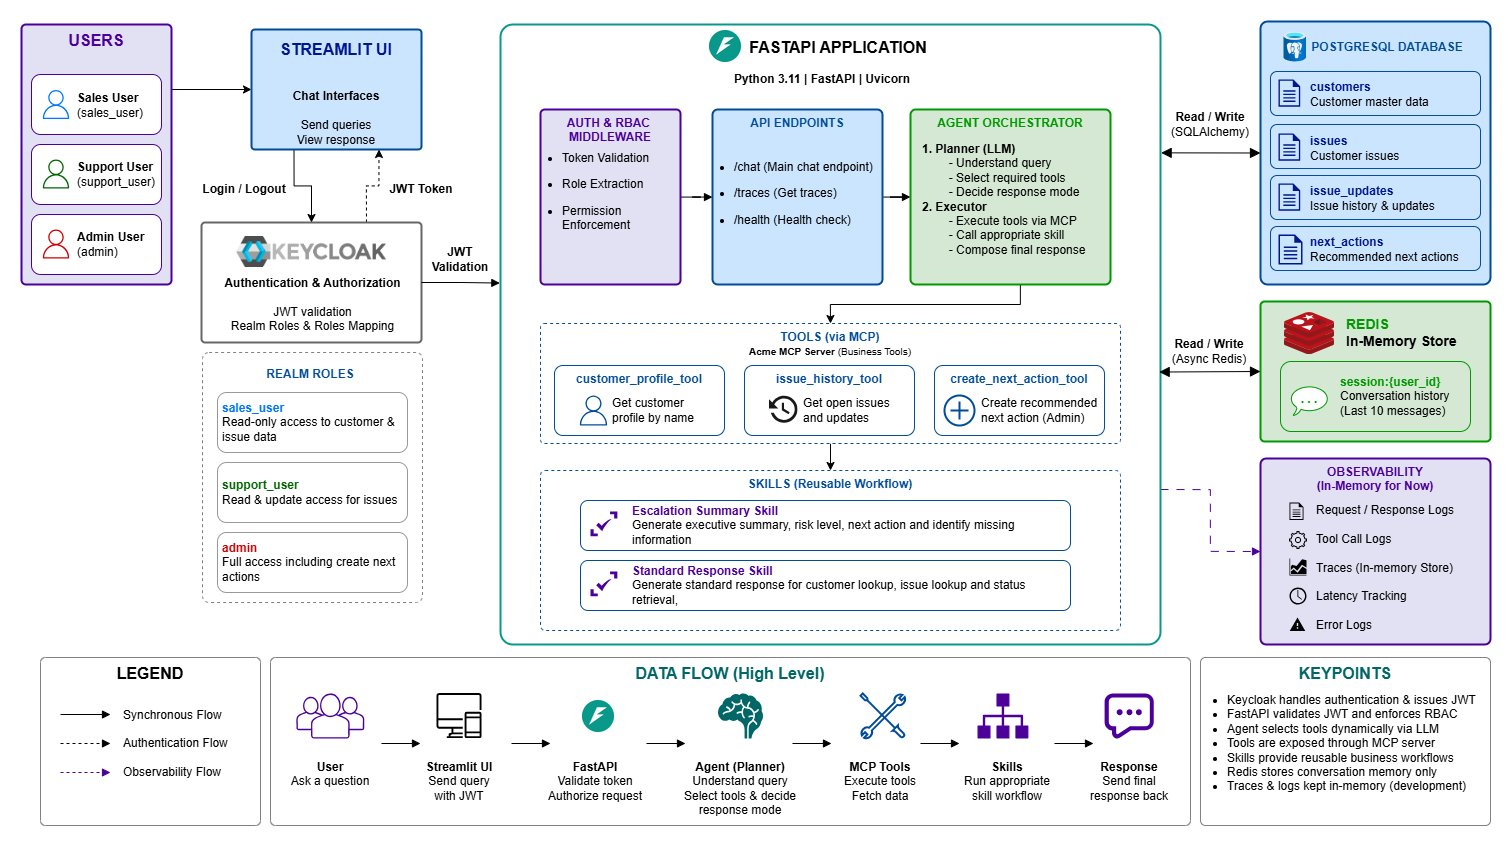
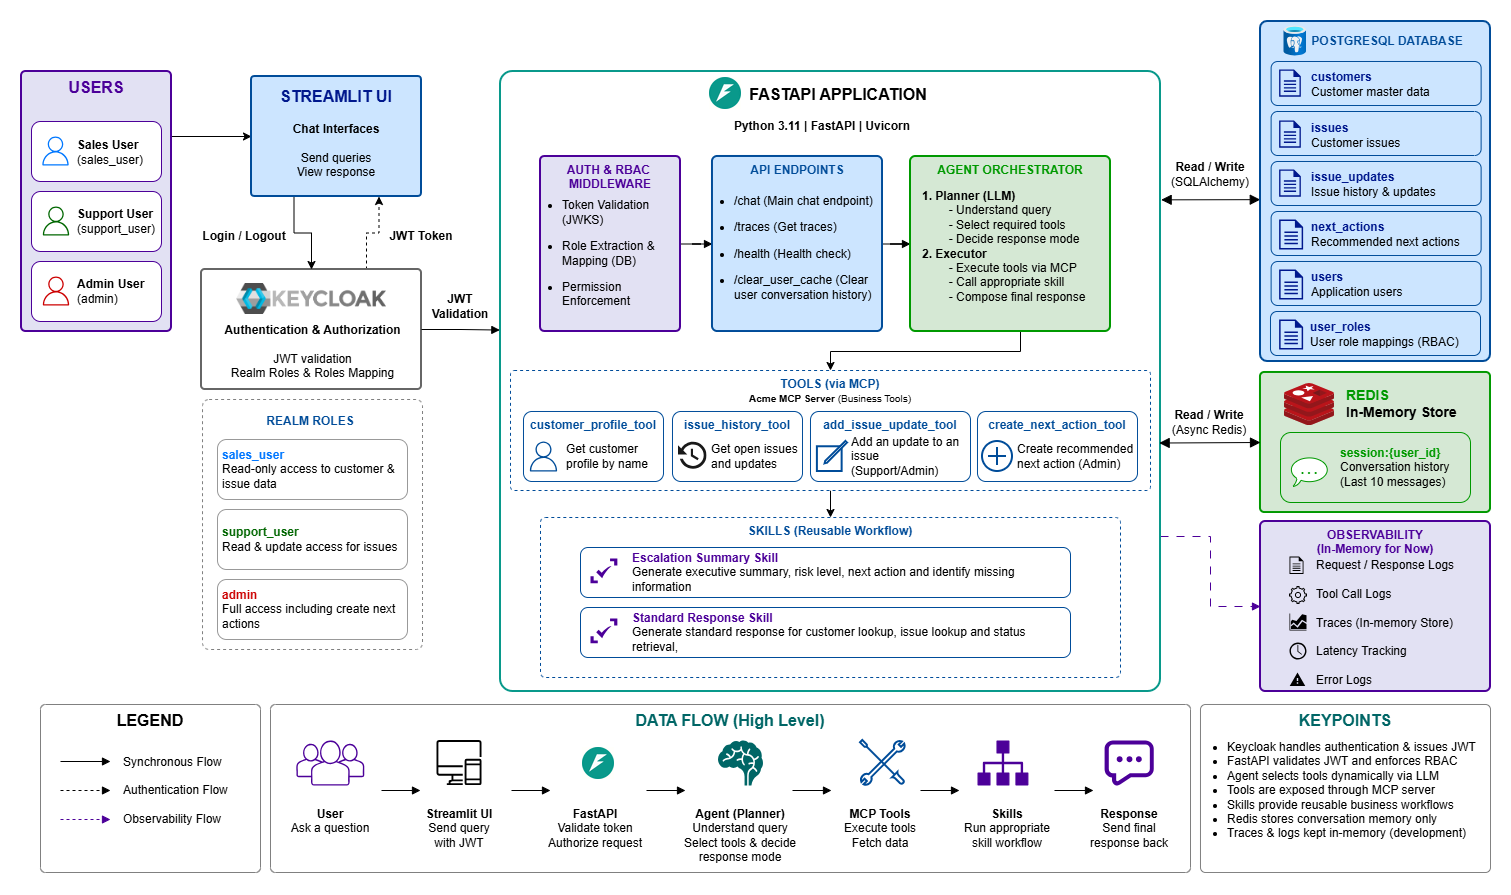
Seventh commit

diff --git a/evals/summary.md b/evals/summary.md
@@ -22,6 +22,7 @@ Validates that the planner chooses the correct tool based on user intent.
 Examples:
 - customer_profile_tool
 - issue_history_tool
+- add_issue_update_tool
 - create_next_action_tool
 ### Response Mode Selection
 Validates correct routing between:
@@ -39,6 +40,7 @@ Validates:
 - authorization failures
 ### Planner Robustness
 Validates natural language variations and indirect phrasing.
+
 ---
 ## Evaluation Result
 | Metric | Result |